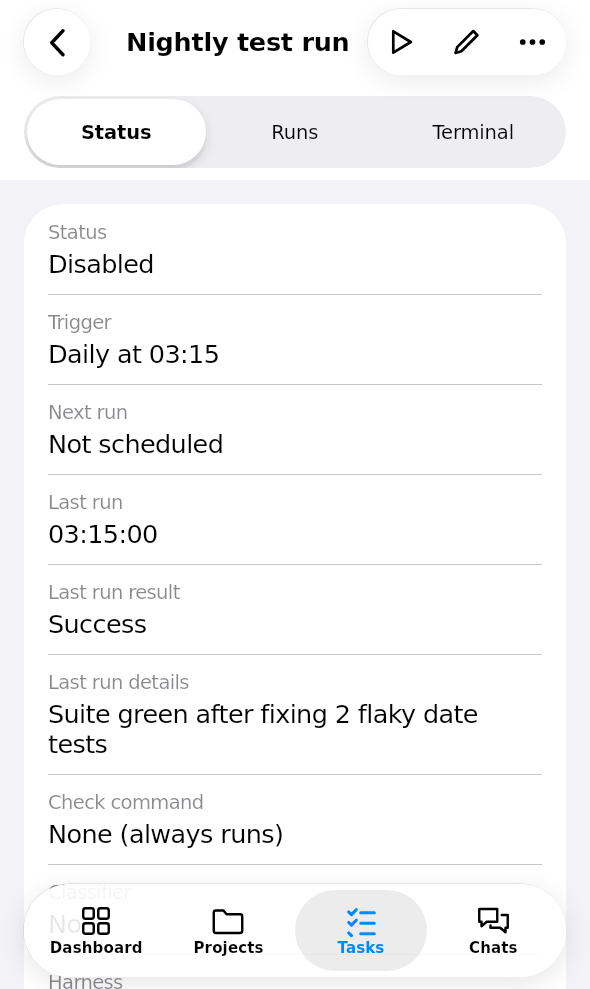
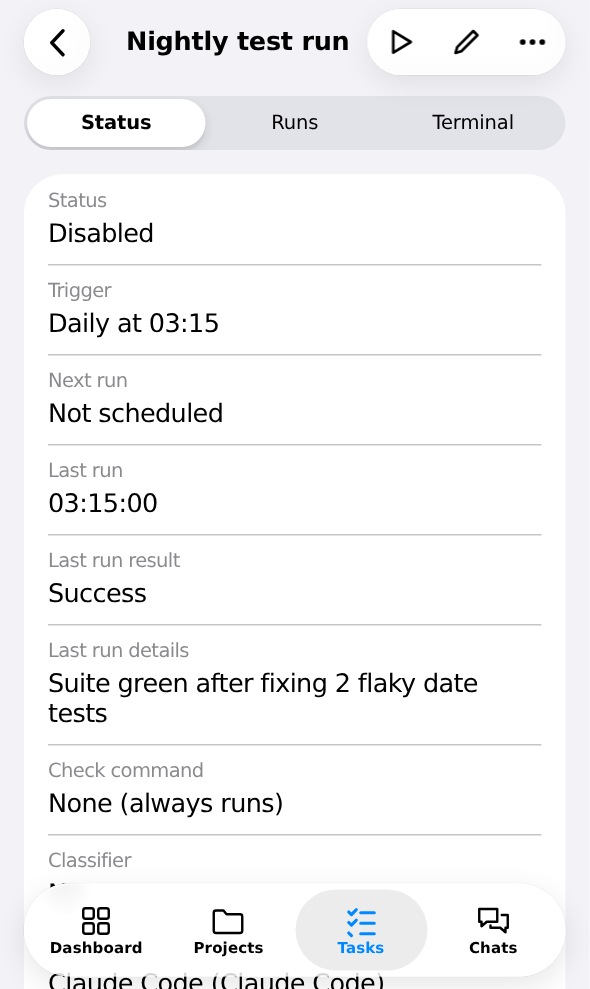
Fix the iPhone status bar showing black: iOS colors it from the fixed root, not theme-color, so the root now takes the top screen's color (black only behind a page sheet). Make the glass controls closer to Liquid Glass (thinner tint, brighter backdrop, a rim lit at two corners), and give a task's or

diff --git a/src/renderer/src/phone.css b/src/renderer/src/phone.css
@@ -22,9 +22,12 @@ html.phone-window[data-platform='ios'] {
   --pg-on-tint: #ffffff;
   --pg-press: #d1d1d6;
   --pg-bar: rgba(249, 249, 249, 0.94);
-  --pg-glass: rgba(255, 255, 255, 0.9);
-  --pg-glass-edge: inset 0 0 0 0.5px rgba(255, 255, 255, 0.8), 0 0 0 0.5px rgba(0, 0, 0, 0.07);
-  --pg-glass-shadow: 0 4px 16px rgba(0, 0, 0, 0.1);
+  /* Liquid Glass as near as CSS gets: the same tint, filter and rim as the frame's bar buttons (ios.css). */
+  --pg-glass: rgba(255, 255, 255, 0.6);
+  --pg-glass-filter: blur(12px) saturate(200%) brightness(1.06);
+  --pg-glass-edge: inset 1px 1px 1px -0.5px rgba(255, 255, 255, 0.95), inset -1px -1px 1px -0.5px rgba(255, 255, 255, 0.7),
+    inset 0 0 0 0.5px rgba(255, 255, 255, 0.4), 0 0 0 0.5px rgba(0, 0, 0, 0.06);
+  --pg-glass-shadow: 0 6px 20px rgba(0, 0, 0, 0.1);
   --pg-tab-on: rgba(120, 120, 128, 0.14);
   --pg-switch-off: rgba(120, 120, 128, 0.16);
   --pg-seg-on: #ffffff;
@@ -101,8 +104,9 @@ html.phone-window[data-platform='android'] {
     --pg-tint: #0091ff;
     --pg-press: #3a3a3c;
     --pg-bar: rgba(22, 22, 23, 0.94);
-    --pg-glass: rgba(64, 64, 68, 0.9);
-    --pg-glass-edge: inset 0 0 0 0.5px rgba(255, 255, 255, 0.16), 0 0 0 0.5px rgba(0, 0, 0, 0.4);
+    --pg-glass: rgba(64, 64, 68, 0.6);
+    --pg-glass-edge: inset 1px 1px 1px -0.5px rgba(255, 255, 255, 0.35), inset -1px -1px 1px -0.5px rgba(255, 255, 255, 0.18),
+      inset 0 0 0 0.5px rgba(255, 255, 255, 0.1), 0 0 0 0.5px rgba(0, 0, 0, 0.4);
     --pg-glass-shadow: 0 4px 16px rgba(0, 0, 0, 0.3);
     /* iOS 27: on the lighter dark glass, the selected tab's pill is darker, not lighter. */
     --pg-tab-on: rgba(0, 0, 0, 0.28);
@@ -374,6 +378,7 @@ html.phone-window[data-platform='ios'] .pg-segmented button,
 html.phone-window[data-platform='ios'] .phone-detail > .detail > .tabs .tab {
   flex: 1;
   min-width: 0;
+  min-height: 0;
   height: 32px;
   padding: 0 6px;
   border: none;
@@ -473,9 +478,20 @@ html.phone-window[data-platform='ios'] .phone-tabbar {
   padding: 4px;
   border-radius: 31px;
   background: var(--pg-glass);
-  -webkit-backdrop-filter: saturate(180%) blur(16px);
-  backdrop-filter: saturate(180%) blur(16px);
+  -webkit-backdrop-filter: var(--pg-glass-filter);
+  backdrop-filter: var(--pg-glass-filter);
   box-shadow: var(--pg-glass-edge), var(--pg-glass-shadow);
+}
+/* Without backdrop blur, the glass goes nearly opaque so the content under it doesn't show through the labels. */
+@supports not (backdrop-filter: blur(1px)) {
+  html.phone-window[data-platform='ios'] {
+    --pg-glass: rgba(246, 246, 246, 0.97);
+  }
+  @media (prefers-color-scheme: dark) {
+    html.phone-window[data-platform='ios'] {
+      --pg-glass: rgba(58, 58, 60, 0.97);
+    }
+  }
 }
 /* Content scrolls under it and can still scroll clear of it. A pushed screen whose tab is one scrolling
    pane does the same; one with fixed parts at its bottom (a terminal's key row, Git) stops above it. */
@@ -550,6 +566,14 @@ html.phone-window .phone-detail {
 /* The frame's navigation bar shows the title. */
 html.phone-window .phone-detail .detail-bar {
   display: none;
+}
+/* The tabs sit on the page's own gray, 16 pt above the first group, as the segmented control of a list does. */
+html.phone-window[data-platform='ios'] .phone-detail {
+  background: var(--pg-bg);
+}
+html.phone-window[data-platform='ios'] .phone-detail > .detail > .tabs + * .status-pane,
+html.phone-window[data-platform='ios'] .phone-detail > .detail > .tabs + .status-pane {
+  padding-top: 8px;
 }
 html.phone-window .phone-detail > .detail {
   flex: 1;

diff --git a/src/renderer/src/web/ios.css b/src/renderer/src/web/ios.css
@@ -16,13 +16,15 @@ html[data-platform='ios'] {
   --ios-bar: #f9f9f9;
   --ios-fill: rgba(118, 118, 128, 0.12);
   --ios-fill2: rgba(120, 120, 128, 0.16);
-  /* Liquid Glass, regular: the small controls (bar buttons, the tab bar) and the larger, denser
-     surfaces with text on them (menus, alerts). WebKit builds that take backdrop-filter without drawing it
-     show the page through, so neither is thin enough for what's behind to compete with the text. */
-  --ios-glass: rgba(255, 255, 255, 0.9);
-  --ios-glass-dense: rgba(250, 250, 250, 0.97);
-  --ios-glass-edge: inset 0 0 0 0.5px rgba(255, 255, 255, 0.8), 0 0 0 0.5px rgba(0, 0, 0, 0.07);
-  --ios-glass-shadow: 0 4px 16px rgba(0, 0, 0, 0.08);
+  /* Liquid Glass as near as CSS gets (WebKit has no refraction for a backdrop): the small controls (bar
+     buttons) and the larger, denser surfaces with text on them (menus, alerts). The rim catches the light
+     at two opposite corners. */
+  --ios-glass: rgba(255, 255, 255, 0.6);
+  --ios-glass-dense: rgba(250, 250, 250, 0.9);
+  --ios-glass-filter: blur(12px) saturate(200%) brightness(1.06);
+  --ios-glass-edge: inset 1px 1px 1px -0.5px rgba(255, 255, 255, 0.95), inset -1px -1px 1px -0.5px rgba(255, 255, 255, 0.7),
+    inset 0 0 0 0.5px rgba(255, 255, 255, 0.4), 0 0 0 0.5px rgba(0, 0, 0, 0.06);
+  --ios-glass-shadow: 0 6px 20px rgba(0, 0, 0, 0.08);
   --ios-folder: #1a9cf0;
   --ios-seg-on: #ffffff;
   --ios-switch-off: rgba(120, 120, 128, 0.16);
@@ -46,9 +48,10 @@ html[data-platform='ios'] {
     --ios-fill: rgba(118, 118, 128, 0.24);
     --ios-fill2: rgba(120, 120, 128, 0.32);
     /* iOS 27 draws dark glass lighter than 26 did. */
-    --ios-glass: rgba(64, 64, 68, 0.9);
-    --ios-glass-dense: rgba(44, 44, 46, 0.97);
-    --ios-glass-edge: inset 0 0 0 0.5px rgba(255, 255, 255, 0.16), 0 0 0 0.5px rgba(0, 0, 0, 0.4);
+    --ios-glass: rgba(64, 64, 68, 0.6);
+    --ios-glass-dense: rgba(44, 44, 46, 0.9);
+    --ios-glass-edge: inset 1px 1px 1px -0.5px rgba(255, 255, 255, 0.35), inset -1px -1px 1px -0.5px rgba(255, 255, 255, 0.18),
+      inset 0 0 0 0.5px rgba(255, 255, 255, 0.1), 0 0 0 0.5px rgba(0, 0, 0, 0.4);
     --ios-glass-shadow: 0 4px 16px rgba(0, 0, 0, 0.3);
     --ios-folder: #39a8f0;
     --ios-seg-on: #636366;
@@ -67,7 +70,8 @@ html[data-platform='ios'] {
   color: var(--ios-label);
 }
 .ph-root.ios {
-  background: #000;
+  background: var(--ios-status, #000);
+  transition: background-color 0.3s;
 }
 .ph-root.ios button {
   -webkit-tap-highlight-color: transparent;
@@ -146,8 +150,8 @@ html[data-platform='ios'] {
   border: 0;
   border-radius: 22px;
   background: var(--ios-glass);
-  -webkit-backdrop-filter: saturate(180%) blur(16px);
-  backdrop-filter: saturate(180%) blur(16px);
+  -webkit-backdrop-filter: var(--ios-glass-filter);
+  backdrop-filter: var(--ios-glass-filter);
   box-shadow: var(--ios-glass-edge), var(--ios-glass-shadow);
   color: var(--ios-label);
   font: inherit;
@@ -197,8 +201,8 @@ html[data-platform='ios'] {
   gap: 0;
   border-radius: 22px;
   background: var(--ios-glass);
-  -webkit-backdrop-filter: saturate(180%) blur(16px);
-  backdrop-filter: saturate(180%) blur(16px);
+  -webkit-backdrop-filter: var(--ios-glass-filter);
+  backdrop-filter: var(--ios-glass-filter);
   box-shadow: var(--ios-glass-edge), var(--ios-glass-shadow);
 }
 .ios-bar-trail:has(> :nth-child(2)) > :is(.ios-icon-btn, .ios-text-btn):not(.bold) {

diff --git a/src/renderer/src/web/IosFrame.tsx b/src/renderer/src/web/IosFrame.tsx
@@ -74,15 +74,11 @@ export function IosFrame({ controller }: { controller: ShellController }) {
     const meta = document.querySelector<HTMLMetaElement>('meta[name="viewport"]');
     if (meta && !/maximum-scale/.test(meta.content)) meta.content += ', maximum-scale=1';
   }, []);
-  // The status bar takes theme-color: the top screen's bar color, so the two read as one.
-  const topEdge = shell.top ? shell.edges.get(shell.top.win.w) : undefined;
-  useEffect(() => {
-    const bar = shell.rootRef.current?.querySelector('.ph-win.top .ios-bar');
-    if (!bar) return;
-    const own = getComputedStyle(bar).backgroundColor;
-    const color = /^rgba\(.*,\s*0\)$/.test(own) ? getComputedStyle(bar.closest('.ph-card') ?? bar).backgroundColor : own;
-    for (const tc of document.querySelectorAll<HTMLMetaElement>('meta[name="theme-color"]')) if (tc.content !== color) tc.content = color;
-  }, [shell.rootRef, shell.top?.win.w, topEdge]);
+  // iOS colors the status bar from the fixed element under it (the root), not from theme-color: the color of
+  // the topmost full screen's bar, or black while a phone's page sheet shrinks the screen behind it.
+  const full = shell.screens.filter((x) => !x.leaving && (x.pres === 'root' || x.pres === 'push')).sort((a, b) => b.depth - a.depth)[0];
+  const fullEdge = full ? shell.edges.get(full.win.w) : undefined;
+  const statusBar = !full || (!shell.tablet && shell.top?.pres === 'page-sheet') ? '#000' : !fullEdge ? 'var(--ios-bg)' : fullEdge.scrolled ? 'var(--ios-bar)' : fullEdge.color;
   const overlay = !!more || device;
   useEffect(() => {
     if (!overlay) return;
@@ -96,7 +92,7 @@ export function IosFrame({ controller }: { controller: ShellController }) {
   };
 
   return (
-    <div ref={shell.rootRef} className={`ph-root ios${shell.tablet ? ' tablet' : ''}${shell.vp.keyboard ? ' kb' : ''}`}>
+    <div ref={shell.rootRef} className={`ph-root ios${shell.tablet ? ' tablet' : ''}${shell.vp.keyboard ? ' kb' : ''}`} style={{ '--ios-status': statusBar } as React.CSSProperties}>
       <div ref={shell.probeRef} className="ph-probe" aria-hidden="true" />
       <PhoneWindows
         shell={shell}
